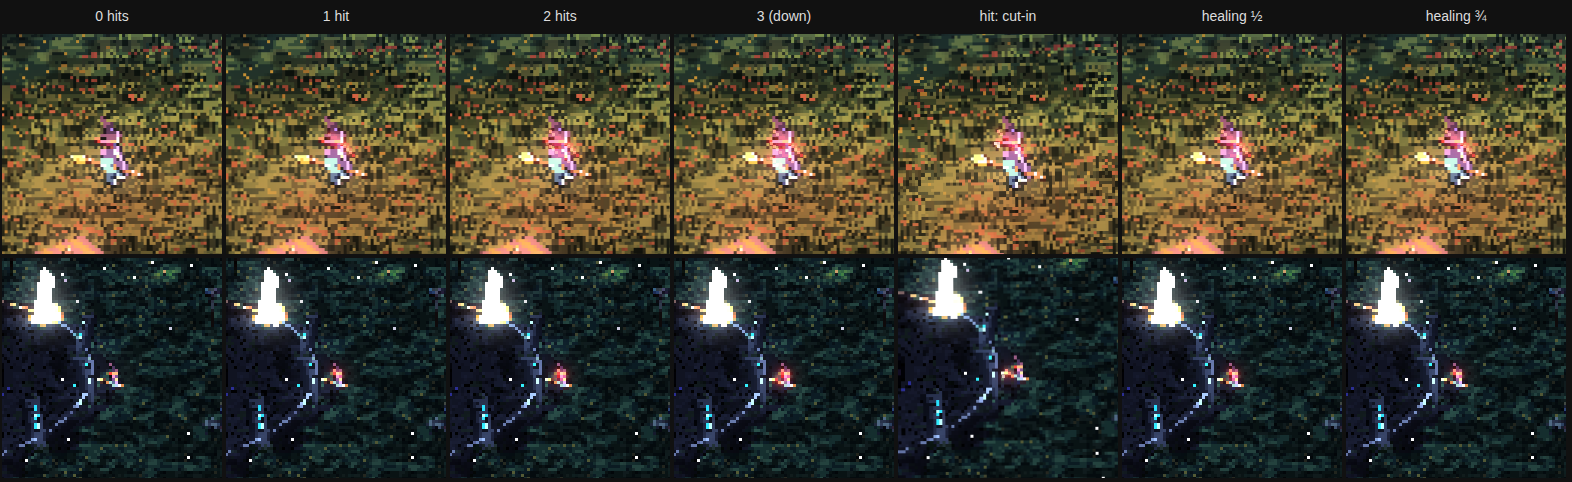
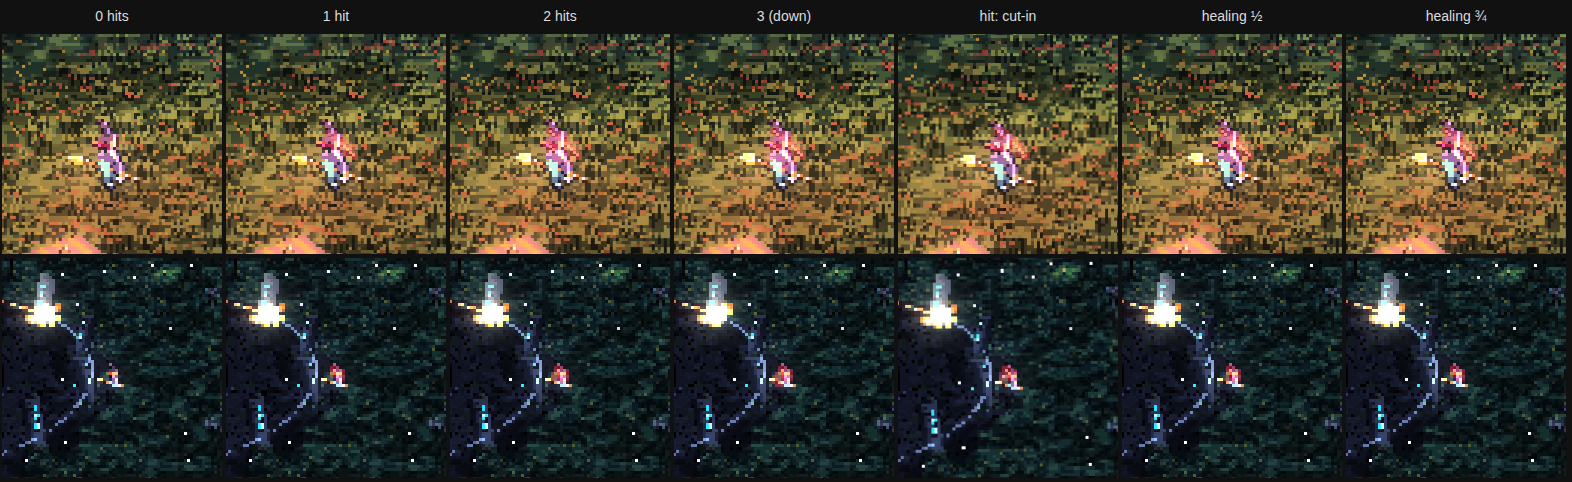
Claw slashes glow in pixels, not a soft shadow (STYLE.md §1 rule 4)
The CSS drop-shadow glow was a soft shadow, which the new style rule rules
out for anything in the world. The glow is now a ring of dim red pixels
round every lit slash pixel, painted into the slashes' own canvas, so it is
on the game pixel grid with everything else (still added to the scene by the
screen blend). New crops.

Claude-Session: https://claude.ai/code/session_01FVGKHvaavDn5xGsWtRTBaz

diff --git a/src/render/leash/slashes.ts b/src/render/leash/slashes.ts
@@ -71,4 +71,15 @@ export function paintSlashes(out: Uint8ClampedArray, st: { count: number; cut: n
       const o = (p.y * w + p.x) * 4; out[o] = r; out[o + 1] = g; out[o + 2] = b; out[o + 3] = 255;
     }
   }
+  // (the glow: a ring of dim red pixels round every lit one, on the same grid, no soft shadow: STYLE.md §1 rule 4)
+  const h = out.length / 4 / w, lit = (x: number, y: number) => x >= 0 && y >= 0 && x < w && y < h && out[(y * w + x) * 4 + 3] === 255;
+  const ring: number[] = [];
+  for (let y = 0; y < h; y++) for (let x = 0; x < w; x++) {
+    if (lit(x, y)) continue;
+    for (let dy = -1; dy <= 1 && !ring.includes(y * w + x); dy++) for (let dx = -1; dx <= 1; dx++) if (lit(x + dx, y + dy)) { ring.push(y * w + x); break; }
+  }
+  for (const i of ring) { const o = i * 4; [out[o], out[o + 1], out[o + 2]] = SLASH_GLOW; out[o + 3] = 254; }
 }
+
+/** The glow ring's colour (added to the scene by the screen blend). */
+export const SLASH_GLOW: readonly [number, number, number] = [112, 12, 18];

diff --git a/src/render/leash/slashes.test.ts b/src/render/leash/slashes.test.ts
@@ -41,4 +41,17 @@ describe("the claw slashes", () => {
       expect(px[0].length).toBeLessThan(slashPixels()[0].length);
     }
   });
+  it("glows with a ring of its own pixels, each touching a slash pixel, no soft edge", () => {
+    const b = new Uint8ClampedArray(SLASH_W * SLASH_H * 4); paintSlashes(b, { count: 3, cut: 1, flash: 0, drained: 0 });
+    const a = (x: number, y: number) => (x >= 0 && y >= 0 && x < SLASH_W && y < SLASH_H ? b[(y * SLASH_W + x) * 4 + 3] : 0);
+    let ring = 0;
+    for (let y = 0; y < SLASH_H; y++) for (let x = 0; x < SLASH_W; x++) {
+      expect([0, 254, 255]).toContain(a(x, y));
+      if (a(x, y) !== 254) continue;
+      ring++;
+      let touches = false; for (let dy = -1; dy <= 1; dy++) for (let dx = -1; dx <= 1; dx++) touches ||= a(x + dx, y + dy) === 255;
+      expect(touches).toBe(true);
+    }
+    expect(ring).toBeGreaterThan(20);
+  });
 });

diff --git a/src/render/leash/bubbles.ts b/src/render/leash/bubbles.ts
@@ -222,7 +222,7 @@ export function drawSlashes(lv: LeashView, time: number, camera: THREE.Camera, w
     cv = document.createElement("canvas"); cv.width = SLASH_W; cv.height = SLASH_H; cv.className = "claw-slashes";
     Object.assign(cv.style, {
       position: "fixed", width: `${SLASH_W * px}px`, height: `${SLASH_H * px}px`, imageRendering: "pixelated", pointerEvents: "none", zIndex: "2", display: "none",
-      mixBlendMode: "screen", filter: "drop-shadow(0 0 2px rgba(255,48,40,.95)) drop-shadow(0 0 7px rgba(255,24,24,.7))", // (its red added to the scene, glowing)
+      mixBlendMode: "screen", // (its red added to the scene; its glow is a ring of its own pixels: leash/slashes.ts)
     });
     document.body.append(cv); lv.slashCanvas = cv;
   }
